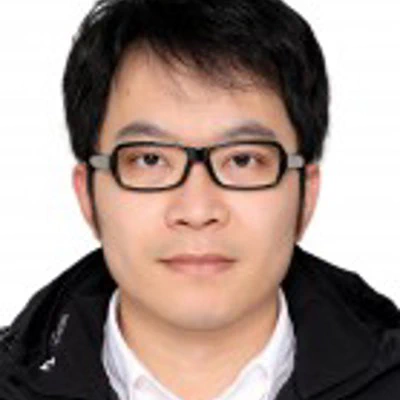
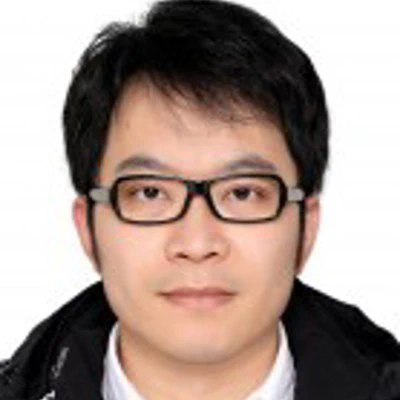
deploy: CHES2025HOVS/HOVS@c97c27602c45e6ab5ce887853801c280ccb5a21e

diff --git a/index.html b/index.html
@@ -547,6 +547,118 @@ on this platform.</p>
         
 
 
+<div class="section-container">
+    <section
+        class="section section--long featured-speakers"
+        
+            aria-label="Featured Speakers"
+        >
+        <h1 class="heading heading--highlighted heading--centered">
+            Featured Speakers
+        </h1>
+        <h2 class="heading heading--2 heading--centered">
+            Meet the Experts
+        </h2>
+        <ul
+            class="featured-speakers__menu"
+                aria-label="Featured Speakers">
+                <li aria-label="Haoting Shen">
+
+
+<div class="speaker-card">
+    <a class="speaker-card__link" href="/speakers/haoting-shen-726b25f8-a400-4d8e-aa9f-6873e86f958b/" aria-label="Haoting Shen">
+        
+            
+                <img
+                    class="speaker-card__avatar"
+                    src="/speakers/haoting-shen-726b25f8-a400-4d8e-aa9f-6873e86f958b/avatar_hu10789392405896374632.webp"
+                    alt="Haoting Shen"
+                    width="256"
+                    height="256" />
+        <h1 class="heading">Haoting Shen</h1>
+        <p class="speaker-card__description">ZJU100 professor at college of computer science and technology, Zhejiang University, China.</p>
+    </a>
+    <div class="speaker-card__social-links">
+        
+    </div>
+</div>
+
+                </li>
+                <li aria-label="Kun Yang">
+
+
+<div class="speaker-card">
+    <a class="speaker-card__link" href="/speakers/kun-yang-2b786b92-ff85-4834-a3ea-995c81716f3c/" aria-label="Kun Yang">
+        
+            
+                <img
+                    class="speaker-card__avatar"
+                    src="/speakers/kun-yang-2b786b92-ff85-4834-a3ea-995c81716f3c/avatar_hu17066060549957790767.webp"
+                    alt="Kun Yang"
+                    width="256"
+                    height="256" />
+        <h1 class="heading">Kun Yang</h1>
+        <p class="speaker-card__description">ZJU100 professor at college of computer science and technology, Zhejiang University, China.</p>
+    </a>
+    <div class="speaker-card__social-links">
+        
+    </div>
+</div>
+
+                </li>
+                <li aria-label="Xiaohang Wang">
+
+
+<div class="speaker-card">
+    <a class="speaker-card__link" href="/speakers/xiaohang-wang-90831a01-8501-4464-a604-af4c65c119a5/" aria-label="Xiaohang Wang">
+        
+            
+                <img
+                    class="speaker-card__avatar"
+                    src="/speakers/xiaohang-wang-90831a01-8501-4464-a604-af4c65c119a5/avatar_hu16943590717866429080.webp"
+                    alt="Xiaohang Wang"
+                    width="256"
+                    height="256" />
+        <h1 class="heading">Xiaohang Wang</h1>
+        <p class="speaker-card__description">a professor at Zhejiang University</p>
+    </a>
+    <div class="speaker-card__social-links">
+        
+    </div>
+</div>
+
+                </li>
+                <li aria-label="Yang Yin">
+
+
+<div class="speaker-card">
+    <a class="speaker-card__link" href="/speakers/yang-yin-7cc3eadc-78a4-4585-9830-9ced29df41cd/" aria-label="Yang Yin">
+        
+                <img
+                    class="speaker-card__avatar"
+                    src="/images/shaped-image-fallback.webp"
+                    alt="Yang Yin"
+                    width="621"
+                    height="840" />
+        <h1 class="heading">Yang Yin</h1>
+        <p class="speaker-card__description">the cybersecurity technical director of the Geely R&amp;D Center, the cybersecurity technical leader in global Geely Group</p>
+    </a>
+    <div class="speaker-card__social-links">
+        
+    </div>
+</div>
+
+                </li>
+        </ul>
+            <a href="/speakers/" class="button button--outlined">
+                All speakers at a glance
+            </a>
+    </section>
+</div>
+
+        
+
+
 <div class="section-container section-container--highlighted">
     <section
         class="section section--long featured-sessions-section"
@@ -632,7 +744,7 @@ on this platform.</p>
                                 </div>
                             </h2>
 
-                            <p class="paragraph paragraph--highlighted featured-sessions-section__session-description">...
+                            <p class="paragraph paragraph--highlighted featured-sessions-section__session-description">Usually, you would find a session description here. But, this is not a real session submission, so let just say we&#39;ll talk about Technology, Interview, Consumer. Ha!...
                                 <a href="/sessions/haoting-shens-session-896382/" class="link link--white">read more</a>
                             </p>
                             <div class="featured-sessions-section__carousel-buttons">
@@ -746,7 +858,7 @@ on this platform.</p>
                                 </div>
                             </h2>
 
-                            <p class="paragraph paragraph--highlighted featured-sessions-section__session-description">...
+                            <p class="paragraph paragraph--highlighted featured-sessions-section__session-description">Usually, you would find a session description here. But, this is not a real session submission, so let just say we&#39;ll talk about Technology, Interview, Consumer. Ha!...
                                 <a href="/sessions/kun-yangs-session-896375/" class="link link--white">read more</a>
                             </p>
                             <div class="featured-sessions-section__carousel-buttons">
@@ -861,7 +973,7 @@ on this platform.</p>
                                 </div>
                             </h2>
 
-                            <p class="paragraph paragraph--highlighted featured-sessions-section__session-description">...
+                            <p class="paragraph paragraph--highlighted featured-sessions-section__session-description">Usually, you would find a session description here. But, this is not a real session submission, so let just say we&#39;ll talk about Technology, Interview, Consumer. Ha!...
                                 <a href="/sessions/xiaohang-wangs-session-896384/" class="link link--white">read more</a>
                             </p>
                             <div class="featured-sessions-section__carousel-buttons">
@@ -976,7 +1088,7 @@ on this platform.</p>
                                 </div>
                             </h2>
 
-                            <p class="paragraph paragraph--highlighted featured-sessions-section__session-description">...
+                            <p class="paragraph paragraph--highlighted featured-sessions-section__session-description">Usually, you would find a session description here. But, this is not a real session submission, so let just say we&#39;ll talk about Technology, Interview, Consumer. Ha!...
                                 <a href="/sessions/yang-yins-session-896389/" class="link link--white">read more</a>
                             </p>
                             <div class="featured-sessions-section__carousel-buttons">

diff --git a/sessions/xiaohang-wangs-session-896384/index.html b/sessions/xiaohang-wangs-session-896384/index.html
@@ -24,7 +24,7 @@ on this platform." />
 
         <meta property="og:url" content="/sessions/xiaohang-wangs-session-896384/">
   <meta property="og:title" content="Xiaohang Wang&#39;s Session">
-  <meta property="og:description" content="CHES 2025 Workshop - Hardware Oriented Vehicle Security (HOVS)">
+  <meta property="og:description" content="Usually, you would find a session description here. But, this is not a real session submission, so let just say we’ll talk about Technology, Interview, Consumer. Ha!">
   <meta property="og:locale" content="en">
   <meta property="og:type" content="article">
     <meta property="article:section" content="sessions">
@@ -34,7 +34,7 @@ on this platform." />
   <meta name="twitter:card" content="summary_large_image">
   <meta name="twitter:image" content="/logos/HOVS.png">
   <meta name="twitter:title" content="Xiaohang Wang&#39;s Session">
-  <meta name="twitter:description" content="CHES 2025 Workshop - Hardware Oriented Vehicle Security (HOVS)">
+  <meta name="twitter:description" content="Usually, you would find a session description here. But, this is not a real session submission, so let just say we’ll talk about Technology, Interview, Consumer. Ha!">
 
 
         
@@ -338,7 +338,7 @@ on this platform." />
                             </span>
                             @Room 1
                     </div>Xiaohang Wang&#39;s Session</h1>
-                <p class="single-session-section__content"></p>
+                <p class="single-session-section__content">Usually, you would find a session description here. But, this is not a real session submission, so let just say we&#39;ll talk about Technology, Interview, Consumer. Ha!</p>
 
 
 <ul aria-label="Session Categories" class="session-categories ">

diff --git a/sessions/haoting-shens-session-896382/index.html b/sessions/haoting-shens-session-896382/index.html
@@ -24,7 +24,7 @@ on this platform." />
 
         <meta property="og:url" content="/sessions/haoting-shens-session-896382/">
   <meta property="og:title" content="Haoting Shen&#39;s Session">
-  <meta property="og:description" content="CHES 2025 Workshop - Hardware Oriented Vehicle Security (HOVS)">
+  <meta property="og:description" content="Usually, you would find a session description here. But, this is not a real session submission, so let just say we’ll talk about Technology, Interview, Consumer. Ha!">
   <meta property="og:locale" content="en">
   <meta property="og:type" content="article">
     <meta property="article:section" content="sessions">
@@ -34,7 +34,7 @@ on this platform." />
   <meta name="twitter:card" content="summary_large_image">
   <meta name="twitter:image" content="/logos/HOVS.png">
   <meta name="twitter:title" content="Haoting Shen&#39;s Session">
-  <meta name="twitter:description" content="CHES 2025 Workshop - Hardware Oriented Vehicle Security (HOVS)">
+  <meta name="twitter:description" content="Usually, you would find a session description here. But, this is not a real session submission, so let just say we’ll talk about Technology, Interview, Consumer. Ha!">
 
 
         
@@ -338,7 +338,7 @@ on this platform." />
                             </span>
                             @Room 1
                     </div>Haoting Shen&#39;s Session</h1>
-                <p class="single-session-section__content"></p>
+                <p class="single-session-section__content">Usually, you would find a session description here. But, this is not a real session submission, so let just say we&#39;ll talk about Technology, Interview, Consumer. Ha!</p>
 
 
 <ul aria-label="Session Categories" class="session-categories ">

diff --git a/sessions/kun-yangs-session-896375/index.html b/sessions/kun-yangs-session-896375/index.html
@@ -24,7 +24,7 @@ on this platform." />
 
         <meta property="og:url" content="/sessions/kun-yangs-session-896375/">
   <meta property="og:title" content="Kun Yang&#39;s Session">
-  <meta property="og:description" content="CHES 2025 Workshop - Hardware Oriented Vehicle Security (HOVS)">
+  <meta property="og:description" content="Usually, you would find a session description here. But, this is not a real session submission, so let just say we’ll talk about Technology, Interview, Consumer. Ha!">
   <meta property="og:locale" content="en">
   <meta property="og:type" content="article">
     <meta property="article:section" content="sessions">
@@ -34,7 +34,7 @@ on this platform." />
   <meta name="twitter:card" content="summary_large_image">
   <meta name="twitter:image" content="/logos/HOVS.png">
   <meta name="twitter:title" content="Kun Yang&#39;s Session">
-  <meta name="twitter:description" content="CHES 2025 Workshop - Hardware Oriented Vehicle Security (HOVS)">
+  <meta name="twitter:description" content="Usually, you would find a session description here. But, this is not a real session submission, so let just say we’ll talk about Technology, Interview, Consumer. Ha!">
 
 
         
@@ -338,7 +338,7 @@ on this platform." />
                             </span>
                             @Room 1
                     </div>Kun Yang&#39;s Session</h1>
-                <p class="single-session-section__content"></p>
+                <p class="single-session-section__content">Usually, you would find a session description here. But, this is not a real session submission, so let just say we&#39;ll talk about Technology, Interview, Consumer. Ha!</p>
 
 
 <ul aria-label="Session Categories" class="session-categories ">

diff --git a/sessions/yang-yins-session-896389/index.html b/sessions/yang-yins-session-896389/index.html
@@ -24,7 +24,7 @@ on this platform." />
 
         <meta property="og:url" content="/sessions/yang-yins-session-896389/">
   <meta property="og:title" content="Yang Yin&#39;s Session">
-  <meta property="og:description" content="CHES 2025 Workshop - Hardware Oriented Vehicle Security (HOVS)">
+  <meta property="og:description" content="Usually, you would find a session description here. But, this is not a real session submission, so let just say we’ll talk about Technology, Interview, Consumer. Ha!">
   <meta property="og:locale" content="en">
   <meta property="og:type" content="article">
     <meta property="article:section" content="sessions">
@@ -34,7 +34,7 @@ on this platform." />
   <meta name="twitter:card" content="summary_large_image">
   <meta name="twitter:image" content="/logos/HOVS.png">
   <meta name="twitter:title" content="Yang Yin&#39;s Session">
-  <meta name="twitter:description" content="CHES 2025 Workshop - Hardware Oriented Vehicle Security (HOVS)">
+  <meta name="twitter:description" content="Usually, you would find a session description here. But, this is not a real session submission, so let just say we’ll talk about Technology, Interview, Consumer. Ha!">
 
 
         
@@ -338,7 +338,7 @@ on this platform." />
                             </span>
                             @Room 1
                     </div>Yang Yin&#39;s Session</h1>
-                <p class="single-session-section__content"></p>
+                <p class="single-session-section__content">Usually, you would find a session description here. But, this is not a real session submission, so let just say we&#39;ll talk about Technology, Interview, Consumer. Ha!</p>
 
 
 <ul aria-label="Session Categories" class="session-categories ">

diff --git a/sessions/index.html b/sessions/index.html
@@ -440,7 +440,7 @@ on this platform." />
                         <li>
                             <img
                                 class="event-row__avatar-img"
-                                src="/sessions/haoting-shens-session-896382/avatar-726b25f8-a400-4d8e-aa9f-6873e86f958b_hu10749381633192621758.webp"
+                                src="/sessions/haoting-shens-session-896382/avatar-726b25f8-a400-4d8e-aa9f-6873e86f958b_hu15772677565110907365.webp"
                                 alt="Haoting Shen"
                                 width="128"
                                 height="128" />

diff --git a/about/index.html b/about/index.html
@@ -352,7 +352,7 @@ on this platform." />
             
                 <img
                     class="speaker-card__avatar"
-                    src="/speakers/haoting-shen-726b25f8-a400-4d8e-aa9f-6873e86f958b/avatar_hu13701766521822074386.webp"
+                    src="/speakers/haoting-shen-726b25f8-a400-4d8e-aa9f-6873e86f958b/avatar_hu10789392405896374632.webp"
                     alt="Haoting Shen"
                     width="256"
                     height="256" />

diff --git a/speakers/index.html b/speakers/index.html
@@ -333,7 +333,7 @@ on this platform." />
             
                 <img
                     class="speaker-card__avatar"
-                    src="/speakers/haoting-shen-726b25f8-a400-4d8e-aa9f-6873e86f958b/avatar_hu13701766521822074386.webp"
+                    src="/speakers/haoting-shen-726b25f8-a400-4d8e-aa9f-6873e86f958b/avatar_hu10789392405896374632.webp"
                     alt="Haoting Shen"
                     width="256"
                     height="256" />
